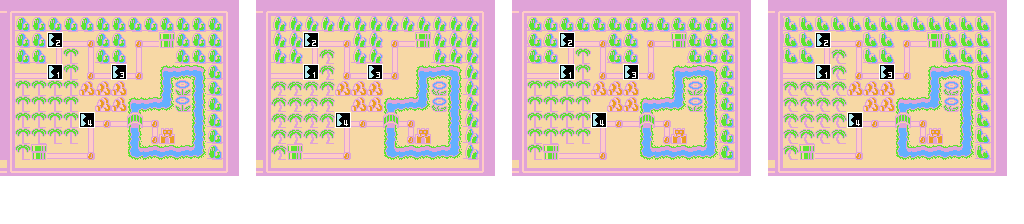
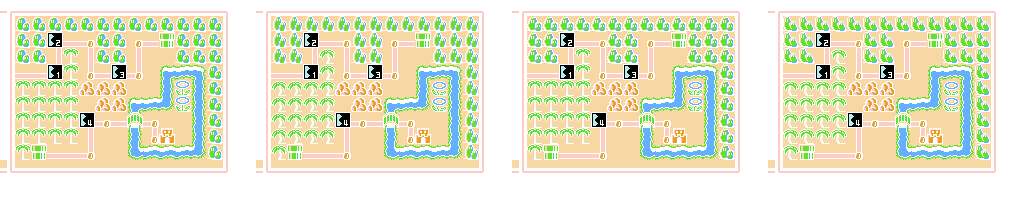
Fixed colors and put mario on screen

Changed region(s): [[0.0, 0.0, 1.0, 0.8125]]

diff --git a/website/Project_branding/style.css b/website/Project_branding/style.css
@@ -11,7 +11,7 @@
     background-size: 100% 4px;
 
     filter: blur(.5px);
-    animation: scanlines infinite 55s linear ;
+    animation: scanlines infinite 1s linear ;
 }
      
 @keyframes scanlines {
@@ -39,6 +39,7 @@
 }
 
 .nes{
+    position: relative;
     height: 896px;
     width: 1016px;
     overflow: hidden;
@@ -46,7 +47,29 @@
     image-rendering: pixelated;
 }
 
-.nes img {
-    background-color: #000000;
-    opacity: 80%;
+.background {
+    animation: moveSpritesheet 1.5s steps(4) infinite;
+}
+
+#Mario {
+    position: absolute;
+    top: 252px;
+    left: 188px;
+    height: 72px;
+    width: 64px;
+    overflow: hidden;
+    image-rendering: pixelated;
+}
+
+.sprite {
+    animation: moveSpritesheet 1s steps(2) infinite;
+}
+
+@keyframes moveSpritesheet {
+    from {
+        transform: translate3d(0px,0,0)
+    }
+    to {
+        transform: translate3d(-100%,0,0);
+    }
 }

diff --git a/website/Project_branding/branding.html b/website/Project_branding/branding.html
@@ -9,8 +9,15 @@
 <body>
     <div class="ctr screen">
         <div class="nes">
-            <img src="SuperMario_Bros 3_Background_Sheet.png" alt="" height="896" width="4096">
+            <img class="background" src="./SuperMario_Bros 3_Background_Sheet.png" alt="" height="896" width="4096">
+            <div id="Mario"><img class="sprite" src="./Mario_Down_Sprites.png" alt="" height="72" width="128"></div>
+            <div class="chapter"></div>
+            <div class="chapter"></div>
+            <div class="chapter"></div>
+            <div class="chapter"></div>
+            <div class="chapter"></div>
         </div>
+        
     </div>
     
 </body>

diff --git a/website/style.css b/website/style.css
@@ -16,7 +16,7 @@
     background-size: 100% 4px;
 
     filter: blur(.5px);
-    animation: scanlines infinite 55s linear ;
+    animation: scanlines infinite 1s linear ;
 }
      
 @keyframes scanlines {
